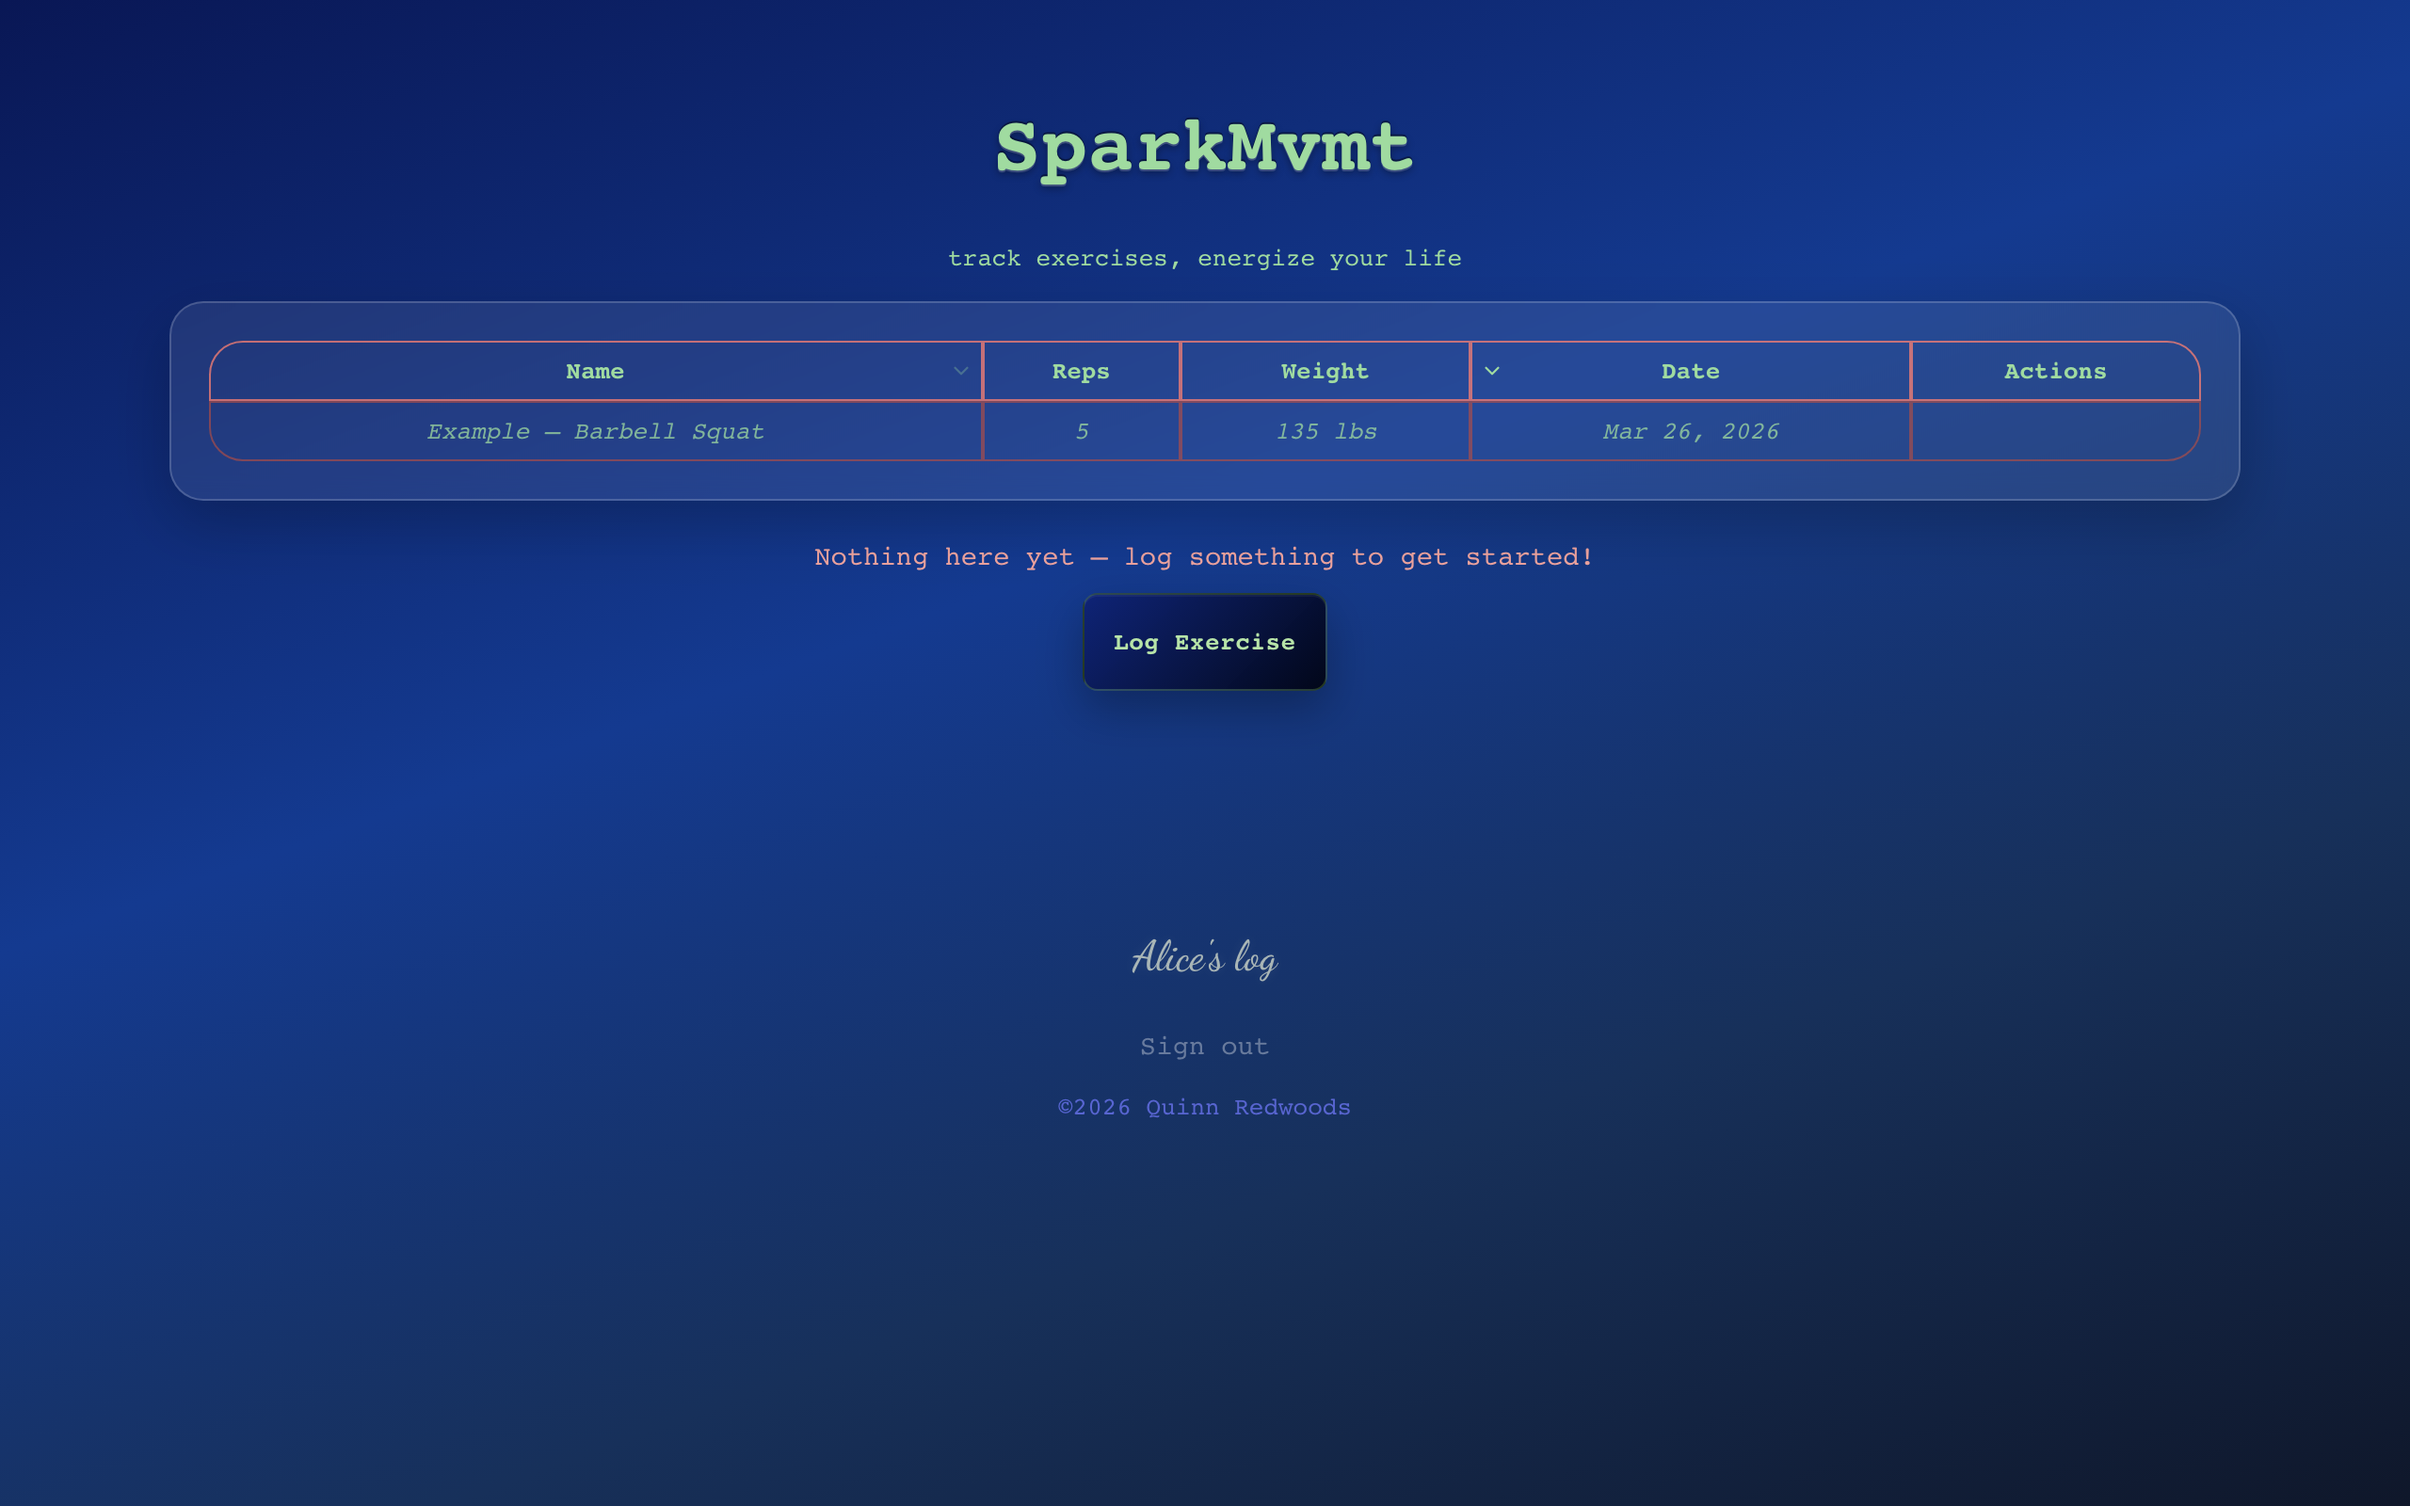
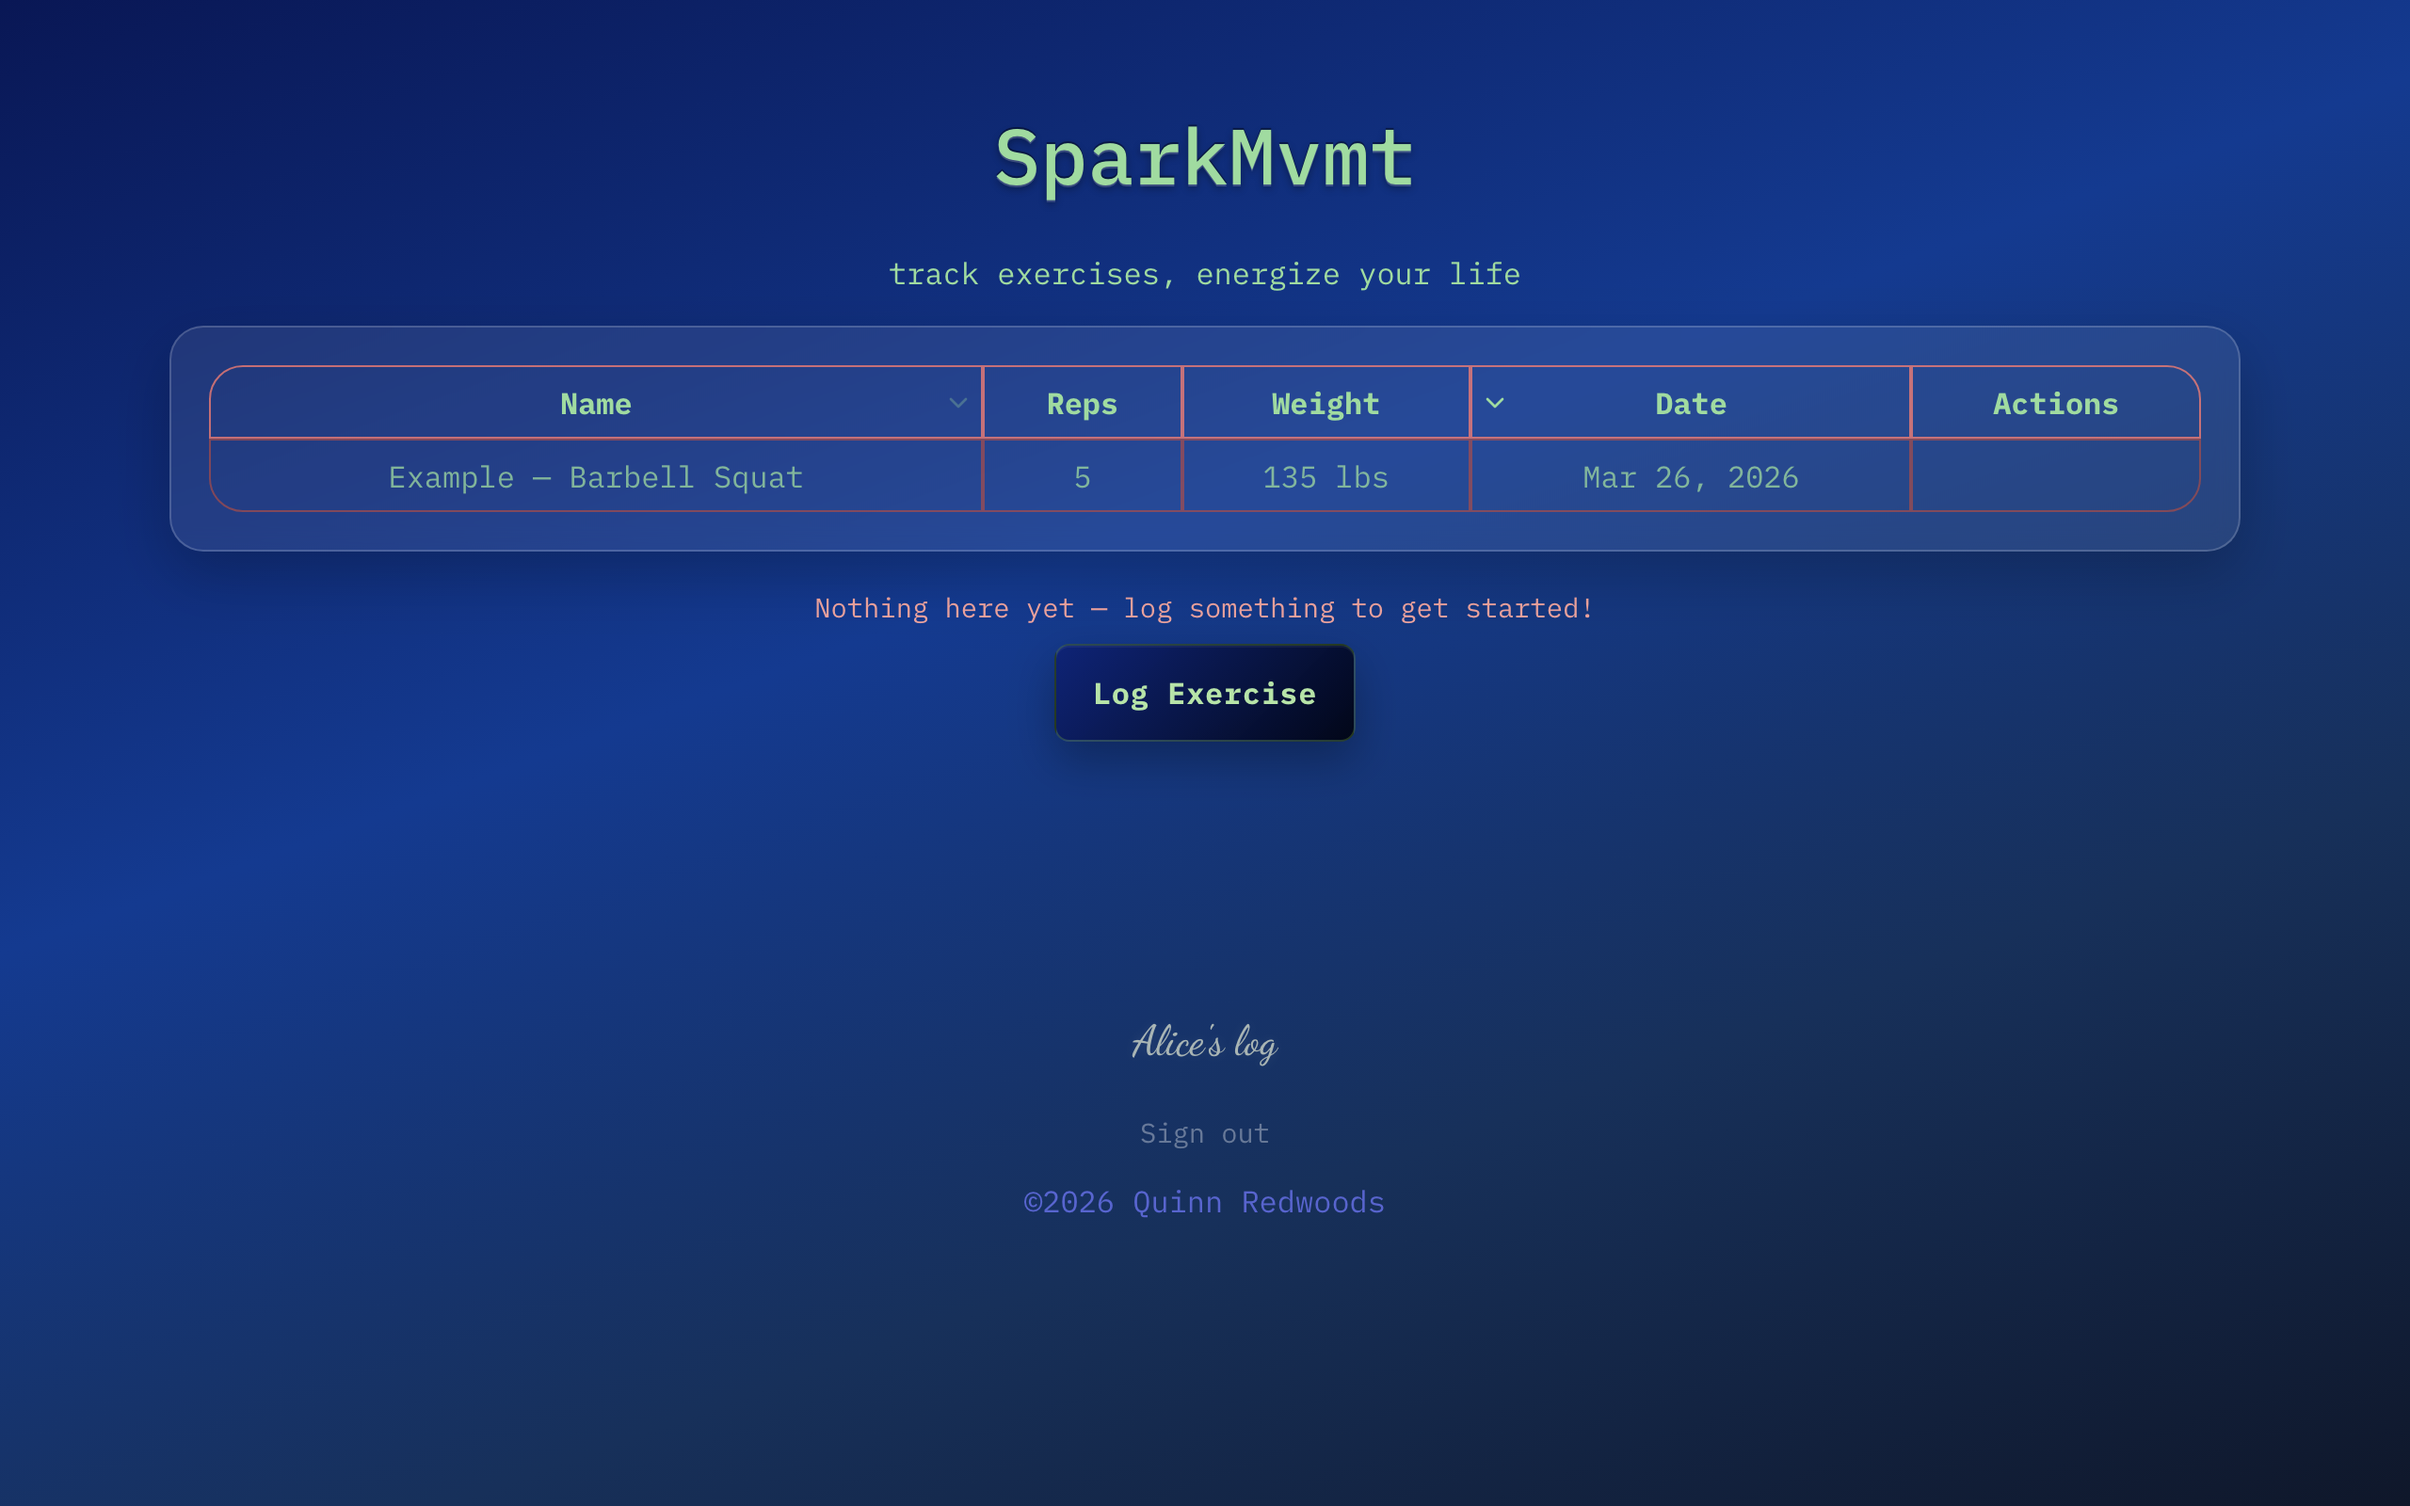
Web fonts, back button restyle, updated screenshots
- Switch to IBM Plex Mono + Barlow web fonts for cross-environment consistency
- Reduce h1 to 2.6em/500 weight for IBM Plex Mono proportions
- Back button now matches Save/+ button style (cta-button--icon)
- Refresh all README screenshots

diff --git a/frontend/index.html b/frontend/index.html
@@ -6,7 +6,7 @@
     <meta name="viewport" content="width=device-width, initial-scale=1.0" />
     <link rel="preconnect" href="https://fonts.googleapis.com" />
     <link rel="preconnect" href="https://fonts.gstatic.com" crossorigin />
-    <link href="https://fonts.googleapis.com/css2?family=Dancing+Script:wght@500&family=Pacifico&display=swap" rel="stylesheet" />
+    <link href="https://fonts.googleapis.com/css2?family=Barlow:wght@400;500;600&family=Dancing+Script:wght@500&family=IBM+Plex+Mono:wght@400;500;700&family=Pacifico&display=swap" rel="stylesheet" />
     <title>SparkMvmt</title>
   </head>
   <body>

diff --git a/frontend/src/App.css b/frontend/src/App.css
@@ -12,7 +12,7 @@ body {
     #143a90 40%,
     #17305a 70%,
     #0f172a 100%);
-  font-family: monospace;
+  font-family: 'IBM Plex Mono', monospace;
   margin: 1em;
   padding: 2em;
   text-align: center;
@@ -26,7 +26,8 @@ button {
 }
 
 h1 {
-  font-size: 3.2em;
+  font-size: 2.6em;
+  font-weight: 500;
   line-height: 1.1;
   color: inherit;
 }
@@ -450,7 +451,7 @@ tbody tr:last-child td:last-child {
 
 
 input {
-  font-family: 'Franklin Gothic Medium', 'Arial Narrow', Arial, sans-serif;
+  font-family: 'Barlow', 'Franklin Gothic Medium', Arial, sans-serif;
 }
 
 

diff --git a/frontend/src/pages/ExerciseFormPage.jsx b/frontend/src/pages/ExerciseFormPage.jsx
@@ -97,7 +97,7 @@ const ExerciseFormPage = ({ setExercises, exerciseDraft, setExerciseDraft, showT
 
       <div className="cta-row">
         <div className="dual-btn">
-          <button className="back-btn" onClick={() => {
+          <button className="cta-button cta-button--icon" onClick={() => {
             if (formDirtyRef.current?.()) { setShowDiscard(true); return; }
             navigate("/");
           }} aria-label="Back" data-tooltip="Back">
